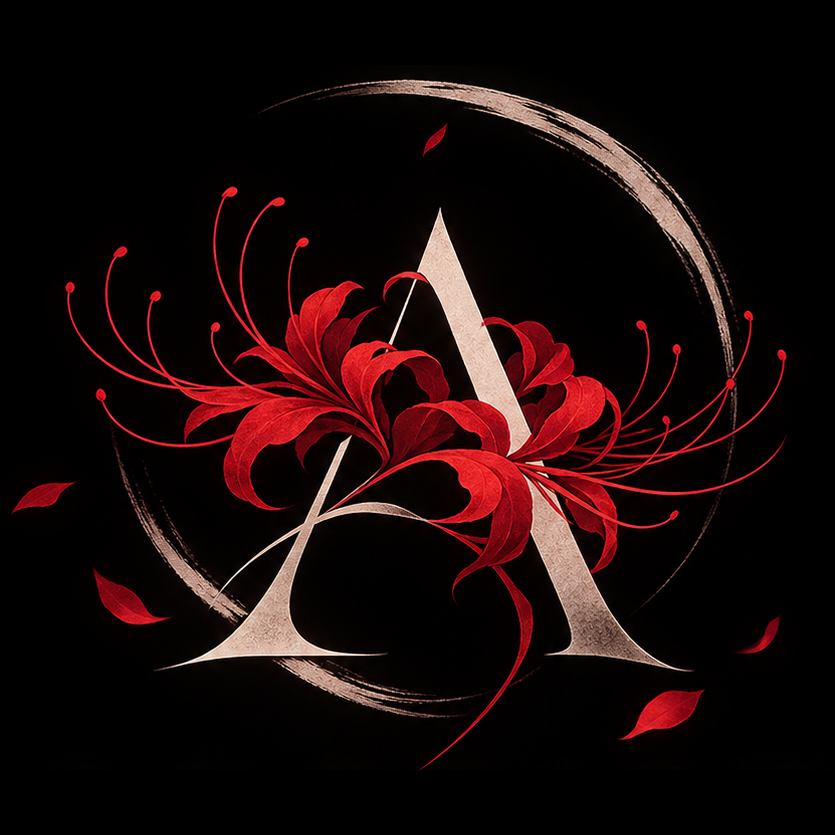
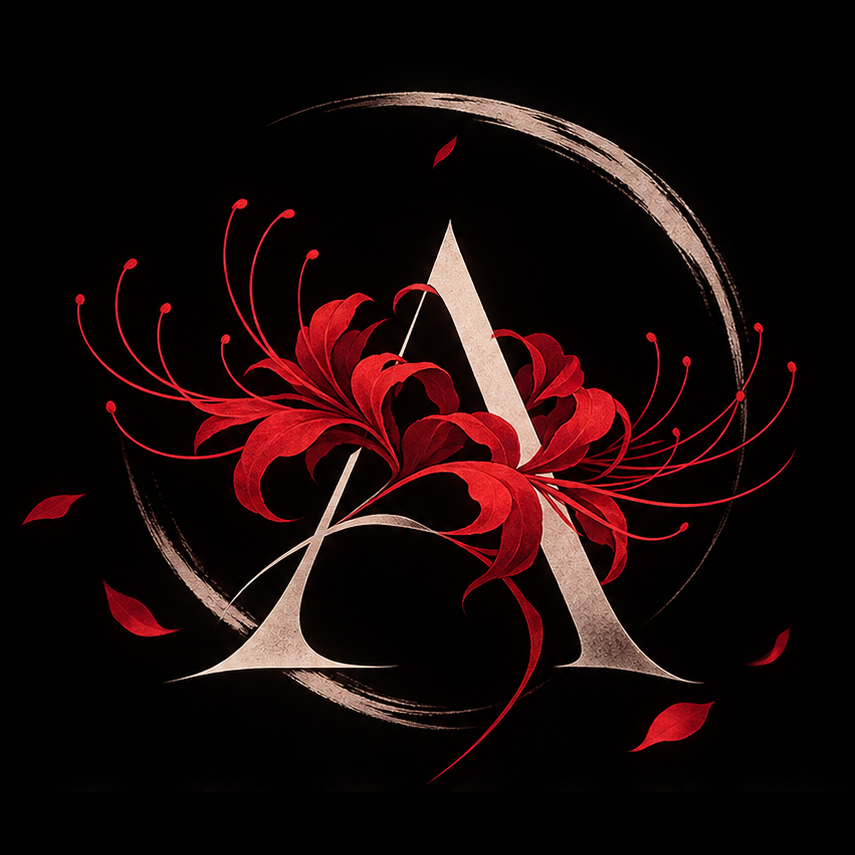
animation

diff --git a/frontend/src/styles/index.css b/frontend/src/styles/index.css
@@ -31,94 +31,187 @@ body {
   place-items: center;
   overflow: hidden;
   isolation: isolate;
-  background: rgb(var(--color-bg-primary));
-  animation: app-opening-leave 3000ms cubic-bezier(0.22, 1, 0.36, 1) both;
-  pointer-events: none;
-}
-
-.app-opening::before,
-.app-opening::after {
-  position: absolute;
-  inset: 0;
-  content: "";
+  background: #030203;
+  animation: app-opening-exit 5000ms ease-in both;
   pointer-events: none;
 }
 
 .app-opening::before {
-  z-index: 1;
-  background: radial-gradient(ellipse at center, transparent 20%, rgb(3 2 8 / 0.2) 58%, rgb(3 2 8 / 0.84) 100%);
+  position: absolute;
+  inset: 0;
+  content: "";
+  pointer-events: none;
+  z-index: 5;
+  background: radial-gradient(ellipse at center, transparent 28%, rgb(0 0 0 / 0.28) 64%, #030203 110%);
 }
 
-.app-opening::after {
+.app-opening__mist {
+  position: absolute;
+  inset: -24%;
+  z-index: 0;
+  opacity: 0;
+  background:
+    radial-gradient(ellipse at 35% 42%, rgb(111 37 44 / 0.19), transparent 34%),
+    radial-gradient(ellipse at 68% 58%, rgb(174 104 83 / 0.12), transparent 38%),
+    radial-gradient(ellipse at 50% 70%, rgb(50 29 36 / 0.34), transparent 52%);
+  filter: blur(40px);
+  animation: opening-mist 5000ms ease-out both;
+}
+
+.app-opening__warmth {
+  position: absolute;
+  inset: -10%;
+  z-index: 4;
+  opacity: 0;
+  background: radial-gradient(ellipse at center, rgb(130 21 34 / 0.3), transparent 48%);
+  filter: blur(28px);
+  animation: opening-warmth 5000ms ease-out both;
+}
+
+.app-opening__brush {
+  position: absolute;
+  z-index: 1;
+  width: min(92vw, 43rem);
+  aspect-ratio: 1;
+  overflow: visible;
+  animation: opening-brush-expand 5000ms cubic-bezier(0.22, 1, 0.36, 1) both;
+}
+
+.app-opening__brush path {
+  fill: none;
+  stroke: #ead4c3;
+  stroke-linecap: round;
+  stroke-linejoin: round;
+}
+
+.app-opening__brush-main {
+  stroke-width: 1.5;
+  stroke-dasharray: 1560;
+  stroke-dashoffset: 1560;
+  opacity: 0.84;
+  filter: drop-shadow(0 0 5px rgb(234 212 195 / 0.28));
+  animation: opening-brush-draw 5000ms cubic-bezier(0.42, 0, 0.22, 1) both;
+}
+
+.app-opening__brush-dry {
+  stroke-width: 0.8;
+  stroke-dasharray: 830;
+  stroke-dashoffset: 830;
+  opacity: 0.32;
+  animation: opening-brush-dry 5000ms ease-out both;
+}
+
+.app-opening__petal {
+  position: absolute;
   z-index: 2;
-  border: 1px solid rgb(var(--color-sage) / 0.15);
-  box-shadow: inset 0 0 0 1.5rem rgb(3 2 8 / 0.12), inset 0 0 8rem rgb(3 2 8 / 0.45);
-  animation: app-opening-frame 3000ms ease-out both;
-}
-
-.app-opening__grid {
-  position: absolute;
-  inset: -50%;
-  opacity: 0;
-  background-image: linear-gradient(rgb(var(--color-sage) / 0.07) 1px, transparent 1px), linear-gradient(90deg, rgb(var(--color-sage) / 0.07) 1px, transparent 1px);
-  background-size: 4.5rem 4.5rem;
-  transform: perspective(28rem) rotateX(62deg) translateY(28%);
-  animation: app-opening-grid 3000ms cubic-bezier(0.22, 1, 0.36, 1) both;
-}
-
-.app-opening__beam {
-  position: absolute;
-  z-index: 1;
-  width: 45vw;
-  height: 180%;
-  opacity: 0;
-  background: linear-gradient(90deg, transparent, rgb(var(--color-sage) / 0.1), transparent);
-  filter: blur(1rem);
-  transform: rotate(32deg);
-}
-
-.app-opening__beam--one { animation: app-opening-beam-one 3000ms ease-in-out both; }
-.app-opening__beam--two { animation: app-opening-beam-two 3000ms ease-in-out both; }
-
-.app-opening__orbit {
-  position: absolute;
-  z-index: 1;
-  border: 1px solid rgb(var(--color-sage) / 0.3);
-  border-radius: 50%;
-  box-shadow: 0 0 2rem rgb(var(--color-sage) / 0.08);
-  transform: rotate(-25deg) scale(0.65);
+  width: 0.56rem;
+  height: 1rem;
+  border-radius: 100% 0 100% 0;
+  background: linear-gradient(145deg, #fa4a53, #8e101d 78%);
+  box-shadow: 0 0 12px rgb(218 29 48 / 0.38);
   opacity: 0;
 }
 
-.app-opening__orbit::after {
+.app-opening__petal--lead {
+  top: 8%;
+  left: 51%;
+  animation: opening-petal-drift 5000ms cubic-bezier(0.4, 0, 0.2, 1) both;
+}
+
+.app-opening__petal--echo-one,
+.app-opening__petal--echo-two {
+  width: 0.22rem;
+  height: 0.36rem;
+  background: #bd2632;
+  box-shadow: 0 0 7px rgb(218 29 48 / 0.28);
+}
+
+.app-opening__petal--echo-one { animation: opening-echo-one 5000ms ease-out both; }
+.app-opening__petal--echo-two { animation: opening-echo-two 5000ms ease-out both; }
+
+.app-opening__petal--final {
+  top: 48%;
+  left: 72%;
+  width: 0.48rem;
+  height: 0.82rem;
+  animation: opening-final-petal 5000ms cubic-bezier(0.4, 0, 0.2, 1) both;
+}
+
+.app-opening__scene {
+  position: relative;
+  z-index: 3;
+  display: flex;
+  flex-direction: column;
+  align-items: center;
+  width: min(86vw, 38rem);
+  transform-origin: center;
+  animation: opening-breath 5000ms cubic-bezier(0.2, 0.75, 0.25, 1) both;
+}
+
+.app-opening__emblem {
+  display: block;
+  width: min(68vw, 25rem);
+  aspect-ratio: 1;
+  object-fit: contain;
+  opacity: 0;
+  clip-path: inset(44% 44% 44% 44% round 48%);
+  filter: brightness(0.72) saturate(0.76);
+  animation: opening-emblem-bloom 5000ms cubic-bezier(0.2, 0.75, 0.25, 1) both;
+}
+
+.app-opening__wordmark {
+  display: block;
+  width: min(78vw, 31rem);
+  height: auto;
+  margin-top: -1.35rem;
+  opacity: 0;
+  filter: blur(9px);
+  transform: scaleX(0.975);
+  animation: opening-wordmark-resolve 5000ms ease-out both;
+}
+
+.app-opening__ornament {
+  display: block;
+  width: min(48vw, 19rem);
+  height: auto;
+  margin-top: -0.05rem;
+  opacity: 0;
+  filter: blur(4px);
+  animation: opening-ornament-resolve 5000ms ease-out both;
+}
+
+.app-opening__petal--lead::after,
+.app-opening__petal--echo-one::after,
+.app-opening__petal--echo-two::after {
   position: absolute;
-  top: -0.3rem;
-  left: 50%;
-  width: 0.6rem;
-  height: 0.6rem;
-  border-radius: 50%;
-  background: rgb(var(--color-sage));
-  box-shadow: 0 0 1.2rem rgb(var(--color-sage) / 0.9);
+  inset: 0;
+  border-radius: inherit;
+  background: inherit;
   content: "";
 }
 
-.app-opening__orbit--outer { width: min(78vw, 42rem); aspect-ratio: 2.6; animation: app-opening-orbit 3000ms cubic-bezier(0.22, 1, 0.36, 1) both; }
-.app-opening__orbit--inner { width: min(58vw, 28rem); aspect-ratio: 2.6; animation: app-opening-orbit 3000ms 100ms cubic-bezier(0.22, 1, 0.36, 1) both reverse; }
+.app-opening__petal--echo-one { top: 31%; left: 36%; }
+.app-opening__petal--echo-two { top: 43%; left: 64%; }
 
-.app-opening__halo {
-  z-index: 1;
-  position: absolute;
-  width: min(70vw, 34rem);
-  aspect-ratio: 1;
-  border-radius: 50%;
-  background: radial-gradient(circle, rgb(var(--color-sage) / 0.15), transparent 68%);
-  animation: app-opening-halo 3000ms ease-out both;
+.app-opening__petal--lead::after {
+  transform: translate(-0.55rem, 1.3rem) scale(0.48);
+  opacity: 0.5;
 }
 
-.app-opening__scene { z-index: 3; animation: app-opening-scene 3000ms cubic-bezier(0.22, 1, 0.36, 1) both; }
+.app-opening__petal--echo-one::after {
+  transform: translate(0.5rem, 1rem) scale(0.6);
+  opacity: 0.45;
+}
 
-.app-opening__tagline {
-  animation: app-opening-tagline 3000ms cubic-bezier(0.22, 1, 0.36, 1) both;
+.app-opening__petal--echo-two::after {
+  transform: translate(-0.35rem, 0.75rem) scale(0.5);
+  opacity: 0.4;
+}
+
+@media (max-height: 620px) {
+  .app-opening__emblem { width: min(52vh, 22rem); }
+  .app-opening__wordmark { width: min(60vw, 26rem); margin-top: -1.8rem; }
+  .app-opening__ornament { width: min(38vw, 16rem); }
 }
 
 ::selection {
@@ -220,15 +313,20 @@ body {
 @keyframes worlds-portal-spin { to { transform: rotate(360deg); } }
 @keyframes app-shell-arrive { from { opacity: 0; transform: scale(0.985); } to { opacity: 1; transform: scale(1); } }
 @keyframes route-entry-arrive { from { opacity: 0; transform: translateY(0.35rem); } to { opacity: 1; transform: translateY(0); } }
-@keyframes app-opening-leave { 0%, 68% { opacity: 1; } 100% { opacity: 0; visibility: hidden; } }
-@keyframes app-opening-frame { 0%, 68% { opacity: 0; } 78% { opacity: 1; } 100% { opacity: 0; } }
-@keyframes app-opening-grid { 0%, 25% { opacity: 0; transform: perspective(28rem) rotateX(62deg) translateY(40%) scale(1.1); } 62% { opacity: 1; } 100% { opacity: 0.25; transform: perspective(28rem) rotateX(62deg) translateY(12%) scale(1); } }
-@keyframes app-opening-beam-one { 0%, 22% { opacity: 0; transform: translateX(-70vw) rotate(32deg); } 47% { opacity: 0.8; } 74%, 100% { opacity: 0; transform: translateX(70vw) rotate(32deg); } }
-@keyframes app-opening-beam-two { 0%, 38% { opacity: 0; transform: translateX(70vw) rotate(32deg); } 62% { opacity: 0.55; } 86%, 100% { opacity: 0; transform: translateX(-70vw) rotate(32deg); } }
-@keyframes app-opening-orbit { 0% { opacity: 0; transform: rotate(-25deg) scale(0.65); } 28% { opacity: 0.9; } 74% { opacity: 0.65; transform: rotate(18deg) scale(1); } 100% { opacity: 0; transform: rotate(32deg) scale(1.14); } }
-@keyframes app-opening-scene { 0%, 18% { opacity: 0; transform: translateY(1rem) scale(0.92); } 44% { opacity: 1; } 72% { transform: translateY(0) scale(1); } 100% { opacity: 0; transform: translateY(-0.75rem) scale(1.04); } }
-@keyframes app-opening-halo { from { transform: scale(0.65); opacity: 0; } 38% { opacity: 1; } 72% { transform: scale(1); opacity: 0.8; } to { transform: scale(1.3); opacity: 0; } }
-@keyframes app-opening-tagline { 0%, 30% { opacity: 0; transform: translateY(0.35rem); } 48%, 78% { opacity: 1; transform: translateY(0); } 100% { opacity: 0; transform: translateY(-0.2rem); } }
+@keyframes app-opening-exit { 0%, 94% { opacity: 1; visibility: visible; } 100% { opacity: 0; visibility: hidden; } }
+@keyframes opening-mist { 0%, 8% { opacity: 0; transform: scale(0.96); } 22% { opacity: 0.36; } 68% { opacity: 0.52; } 90% { opacity: 0.28; } 100% { opacity: 0; transform: scale(1.08); } }
+@keyframes opening-warmth { 0%, 68% { opacity: 0; } 80% { opacity: 0.32; } 90% { opacity: 0.2; } 100% { opacity: 0; } }
+@keyframes opening-brush-draw { 0%, 5% { stroke-dashoffset: 1560; opacity: 0; } 12% { opacity: 0.84; } 62%, 94% { stroke-dashoffset: 0; opacity: 0.84; } 100% { stroke-dashoffset: 0; opacity: 0; } }
+@keyframes opening-brush-dry { 0%, 24% { stroke-dashoffset: 830; opacity: 0; } 35% { opacity: 0.32; } 69%, 94% { stroke-dashoffset: 0; opacity: 0.32; } 100% { stroke-dashoffset: 0; opacity: 0; } }
+@keyframes opening-brush-expand { 0%, 92% { transform: scale(1); opacity: 1; } 100% { transform: scale(2.5); opacity: 0; } }
+@keyframes opening-petal-drift { 0% { opacity: 0; transform: translate(4vw, -12vh) rotate(15deg); } 9% { opacity: 1; } 25% { transform: translate(-4vw, 16vh) rotate(96deg); } 43% { transform: translate(-16vw, 36vh) rotate(210deg); } 57% { opacity: 0.88; transform: translate(-8vw, 45vh) rotate(330deg); } 68%, 100% { opacity: 0; transform: translate(8vw, 40vh) rotate(420deg); } }
+@keyframes opening-echo-one { 0%, 15% { opacity: 0; transform: translate(3vw, -4vh) rotate(10deg); } 24% { opacity: 0.42; } 41% { opacity: 0.25; transform: translate(-7vw, 15vh) rotate(110deg); } 52%, 100% { opacity: 0; transform: translate(-14vw, 24vh) rotate(190deg); } }
+@keyframes opening-echo-two { 0%, 30% { opacity: 0; transform: translate(1vw, -3vh) rotate(20deg); } 39% { opacity: 0.35; } 53% { opacity: 0.2; transform: translate(-10vw, 11vh) rotate(130deg); } 65%, 100% { opacity: 0; transform: translate(-17vw, 20vh) rotate(220deg); } }
+@keyframes opening-final-petal { 0%, 68% { opacity: 0; transform: translate(4vw, -7vh) rotate(35deg); } 72% { opacity: 1; } 81% { opacity: 0.92; transform: translate(-42vw, 6vh) rotate(230deg); } 85%, 100% { opacity: 0; transform: translate(-55vw, 12vh) rotate(310deg); } }
+@keyframes opening-emblem-bloom { 0%, 20% { opacity: 0; clip-path: inset(44% 44% 44% 44% round 48%); transform: scale(0.78); filter: brightness(0.58) saturate(0.62); } 34% { opacity: 0.48; clip-path: inset(30% 28% 28% 28% round 46%); transform: scale(0.88); } 54% { opacity: 0.9; clip-path: inset(12% 10% 10% 10% round 28%); transform: scale(0.97); } 73%, 94% { opacity: 1; clip-path: inset(0); transform: scale(1); filter: brightness(1) saturate(1); } 100% { opacity: 0.8; clip-path: inset(0); transform: scale(1); filter: brightness(1.12) saturate(1.06); } }
+@keyframes opening-wordmark-resolve { 0%, 82% { opacity: 0; filter: blur(9px); transform: scaleX(0.975); } 90% { opacity: 0.5; filter: blur(3px); } 96%, 100% { opacity: 1; filter: blur(0); transform: scaleX(1); } }
+@keyframes opening-ornament-resolve { 0%, 88% { opacity: 0; filter: blur(4px); transform: translateY(-0.15rem); } 95%, 100% { opacity: 1; filter: blur(0); transform: translateY(0); } }
+@keyframes opening-breath { 0%, 91% { transform: scale(1); } 95% { transform: scale(1.025); } 98% { transform: scale(1); } 100% { transform: scale(0.94); } }
 @keyframes worlds-fade-in { 0% { opacity: 0; } 18%, 82% { opacity: 1; } 100% { opacity: 0.98; } }
 @keyframes worlds-orb-breathe { 50% { transform: scale(1.12); opacity: 0.72; } }
 @keyframes worlds-ring-expand { 0% { transform: scale(0.35); opacity: 0; } 45% { opacity: 1; } 100% { transform: scale(1.06); opacity: 0.7; } }

diff --git a/frontend/src/components/layout/AppLayout.tsx b/frontend/src/components/layout/AppLayout.tsx
@@ -4,7 +4,7 @@ import Footer from "./Footer";
 import { ErrorBoundary } from "@/components/common/ErrorBoundary";
 import { useEffect, useRef, useState } from "react";
 
-const OPENING_DURATION_MS = 3000;
+const OPENING_DURATION_MS = 5000;
 
 export default function AppLayout() {
   const location = useLocation();
@@ -55,15 +55,20 @@ export default function AppLayout() {
 
       {isOpening && (
         <div key={openingKey} className="app-opening" role="status" aria-label="Opening Anteiku">
-          <div className="app-opening__grid" aria-hidden />
-          <div className="app-opening__beam app-opening__beam--one" aria-hidden />
-          <div className="app-opening__beam app-opening__beam--two" aria-hidden />
-          <div className="app-opening__orbit app-opening__orbit--outer" aria-hidden />
-          <div className="app-opening__orbit app-opening__orbit--inner" aria-hidden />
-          <div className="app-opening__halo" aria-hidden />
-          <div className="app-opening__scene relative flex flex-col items-center gap-3">
-            <img src="/anteiku-logo.png" alt="Anteiku" className="w-[min(78vw,24rem)] aspect-square object-contain" />
-            <p className="app-opening__tagline text-[0.58rem] uppercase tracking-[0.38em] text-muted">Getting time to shine</p>
+          <div className="app-opening__mist" aria-hidden />
+          <div className="app-opening__warmth" aria-hidden />
+          <svg className="app-opening__brush" viewBox="0 0 512 512" aria-hidden="true">
+            <path className="app-opening__brush-main" d="M257 48C355 47 432 118 452 210c21 98-30 194-118 236-85 41-192 16-248-57C30 317 33 216 84 140 124 80 183 48 257 48Z" />
+            <path className="app-opening__brush-dry" d="M244 55C153 57 84 108 53 187m-4 87c2 74 40 141 105 180m69 30c86 9 166-31 209-99m25-88c8-74-20-145-79-194" />
+          </svg>
+          <span className="app-opening__petal app-opening__petal--lead" aria-hidden />
+          <span className="app-opening__petal app-opening__petal--echo-one" aria-hidden />
+          <span className="app-opening__petal app-opening__petal--echo-two" aria-hidden />
+          <span className="app-opening__petal app-opening__petal--final" aria-hidden />
+          <div className="app-opening__scene">
+            <img className="app-opening__emblem" src="/anteiku-emblem.png" alt="" />
+            <img className="app-opening__wordmark" src="/anteiku-wordmark.png" alt="" />
+            <img className="app-opening__ornament" src="/anteiku-ornament.png" alt="" />
           </div>
         </div>
       )}

diff --git a/frontend/index.html b/frontend/index.html
@@ -5,7 +5,7 @@
     <meta name="viewport" content="width=device-width, initial-scale=1.0" />
     <title>ANTEIKU — Anime, steeped slowly.</title>
     <meta name="description" content="A quiet corner of the internet for anime discovery, tracking and viewing." />
-    <meta name="theme-color" content="#101511" />
+    <meta name="theme-color" content="#030203" />
     <link rel="manifest" href="/manifest.webmanifest" />
     <link rel="icon" href="/anteiku-emblem.png" type="image/png" />
     <link rel="apple-touch-icon" href="/anteiku-emblem.png" />

diff --git a/frontend/public/sw.js b/frontend/public/sw.js
@@ -1,5 +1,5 @@
-const CACHE_NAME = "anteiku-shell-v4";
-const SHELL = ["/", "/index.html", "/manifest.webmanifest", "/anteiku-logo.png", "/anteiku-emblem.png"];
+const CACHE_NAME = "anteiku-shell-v6";
+const SHELL = ["/", "/index.html", "/manifest.webmanifest", "/anteiku-emblem.png", "/anteiku-wordmark.png", "/anteiku-ornament.png"];
 
 self.addEventListener("install", (event) => {
   event.waitUntil(caches.open(CACHE_NAME).then((cache) => cache.addAll(SHELL)));
